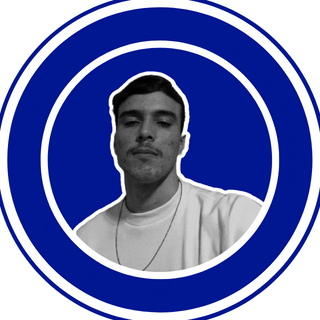
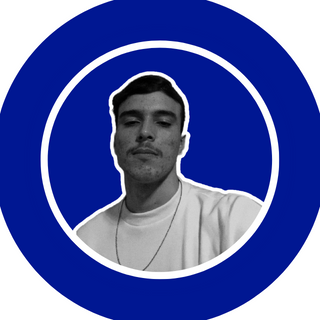
media ajuste

Changed region(s): [[0.0, 0.0, 1.0, 1.0]]

diff --git a/estilo.css b/estilo.css
@@ -9,6 +9,7 @@
         width: 100%;
         height: 100%;
     }
+    /*site*/
     
     i#down,
     #up {
@@ -80,14 +81,16 @@
     
     #foto {
         width: 300px;
-        height: 300px;
+        height: auto;
         border-radius: 100%;
+        border: 6px solid rgb(255, 255, 255);
+        padding: 0px;
     }
     
     img#perfil {
         width: 100%;
         height: 270px;
-        border-radius: 100%;
+        border-radius: 50%;
     }
     
     .row {
@@ -459,22 +462,25 @@
     
     @media (max-width: 767px) {
         /*banner*/
+        body {
+            overflow-x: hidden;
+        }
         #foto {
-            width: 250px;
-            height: 320px;
+            width: auto;
+            height: auto;
             margin: auto;
             margin-top: 70px;
         }
         img#perfil {
             width: 100%;
-            height: 220px;
+            height: auto;
             margin: auto;
         }
         h1#text {
-            font-size: 2rem;
+            font-size: 1.6rem;
         }
         h3#text {
-            font-size: 1.7rem;
+            font-size: 1.5rem;
         }
         h1 {
             width: 100%;
